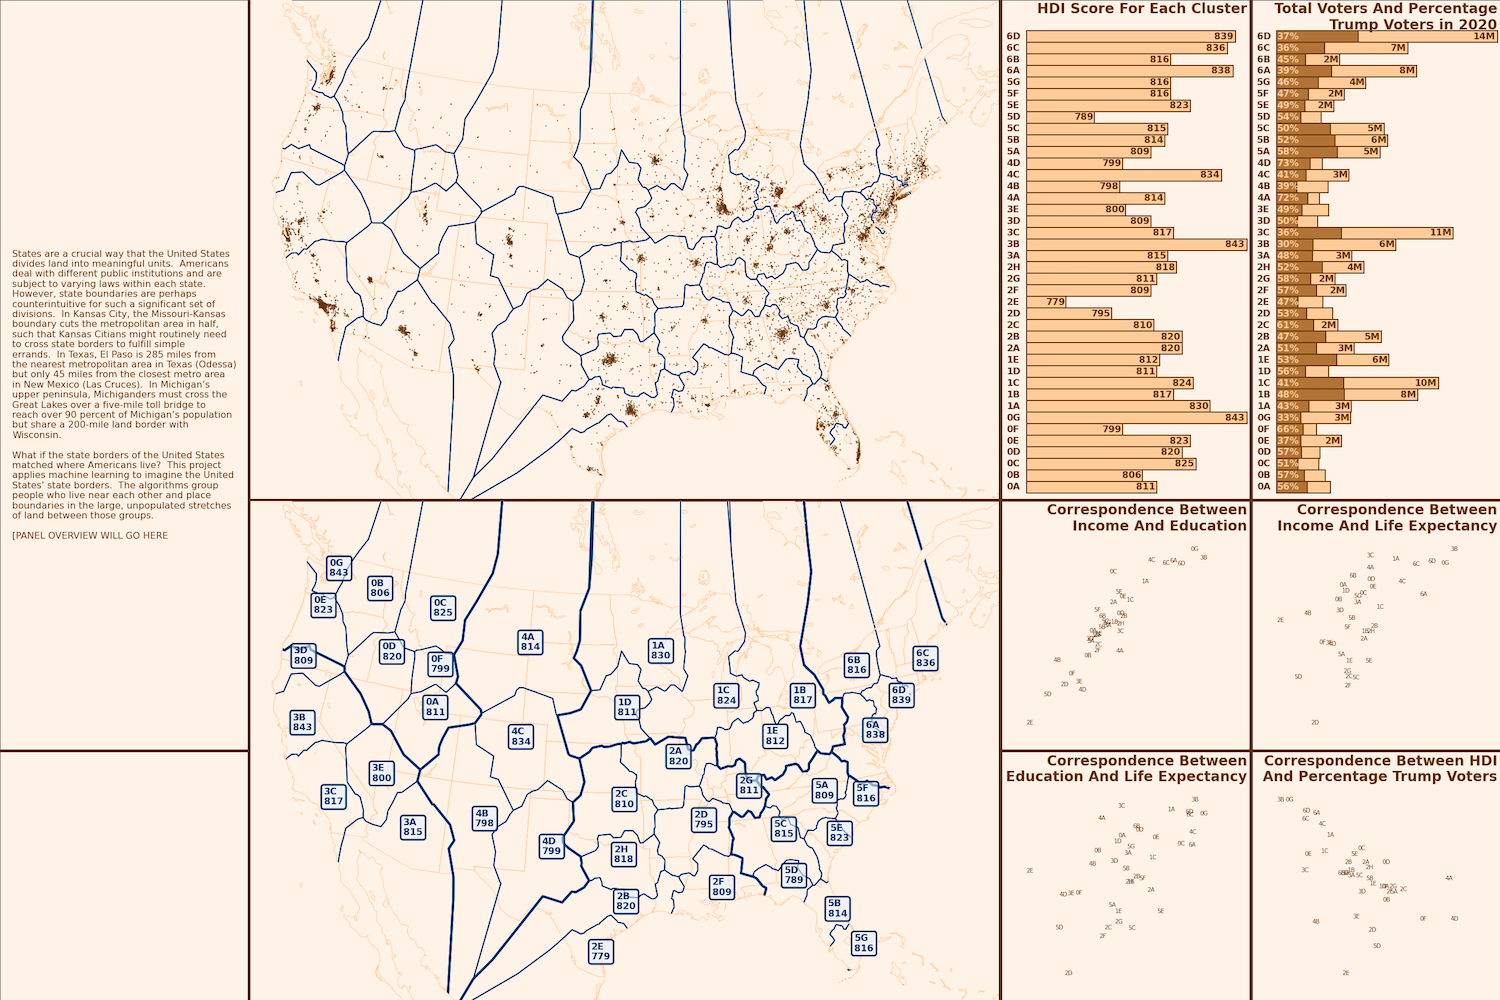
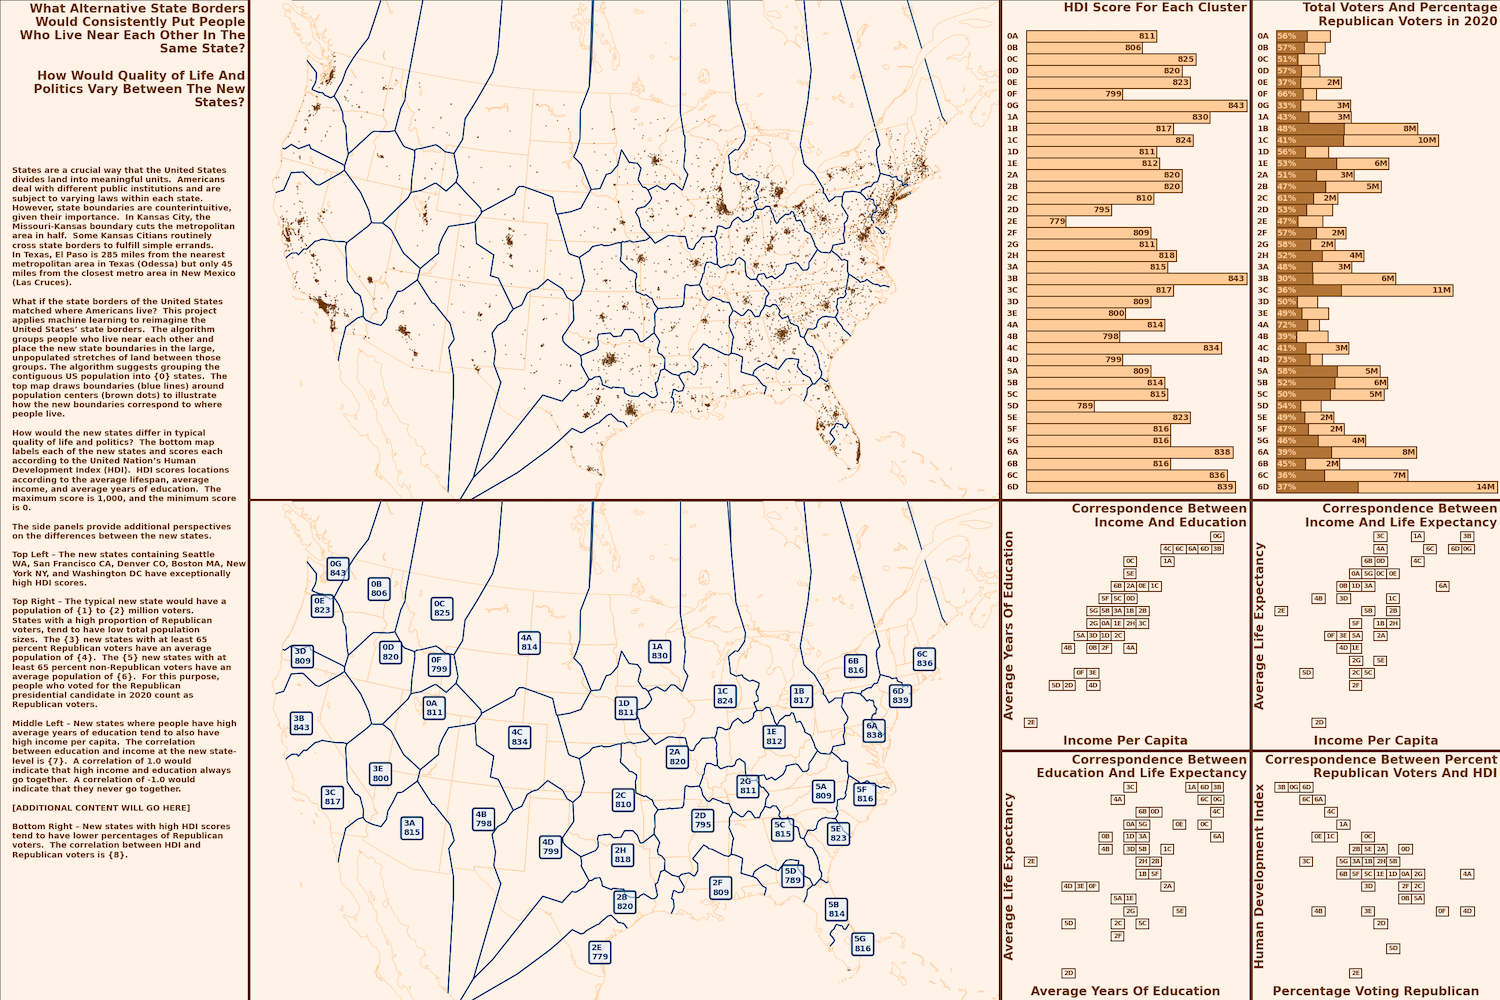
Update thumbnail with more explanatory text and the new scatterplot design

diff --git a/index.html b/index.html
@@ -129,7 +129,7 @@ It correspond to asking, what would US state borders look like if they grouped
 together people who lived near each other?
 <br><br>
 
-This project is 79% complete.  The first draft code is as complete as it need be.
+This project is 72% complete.  The first draft code is as complete as it need be.
 I am most of the way through a major code overhaul based on lessons learned.<br><br>
 
 Language: Python (.ipynb)<br>GitHub repository:
